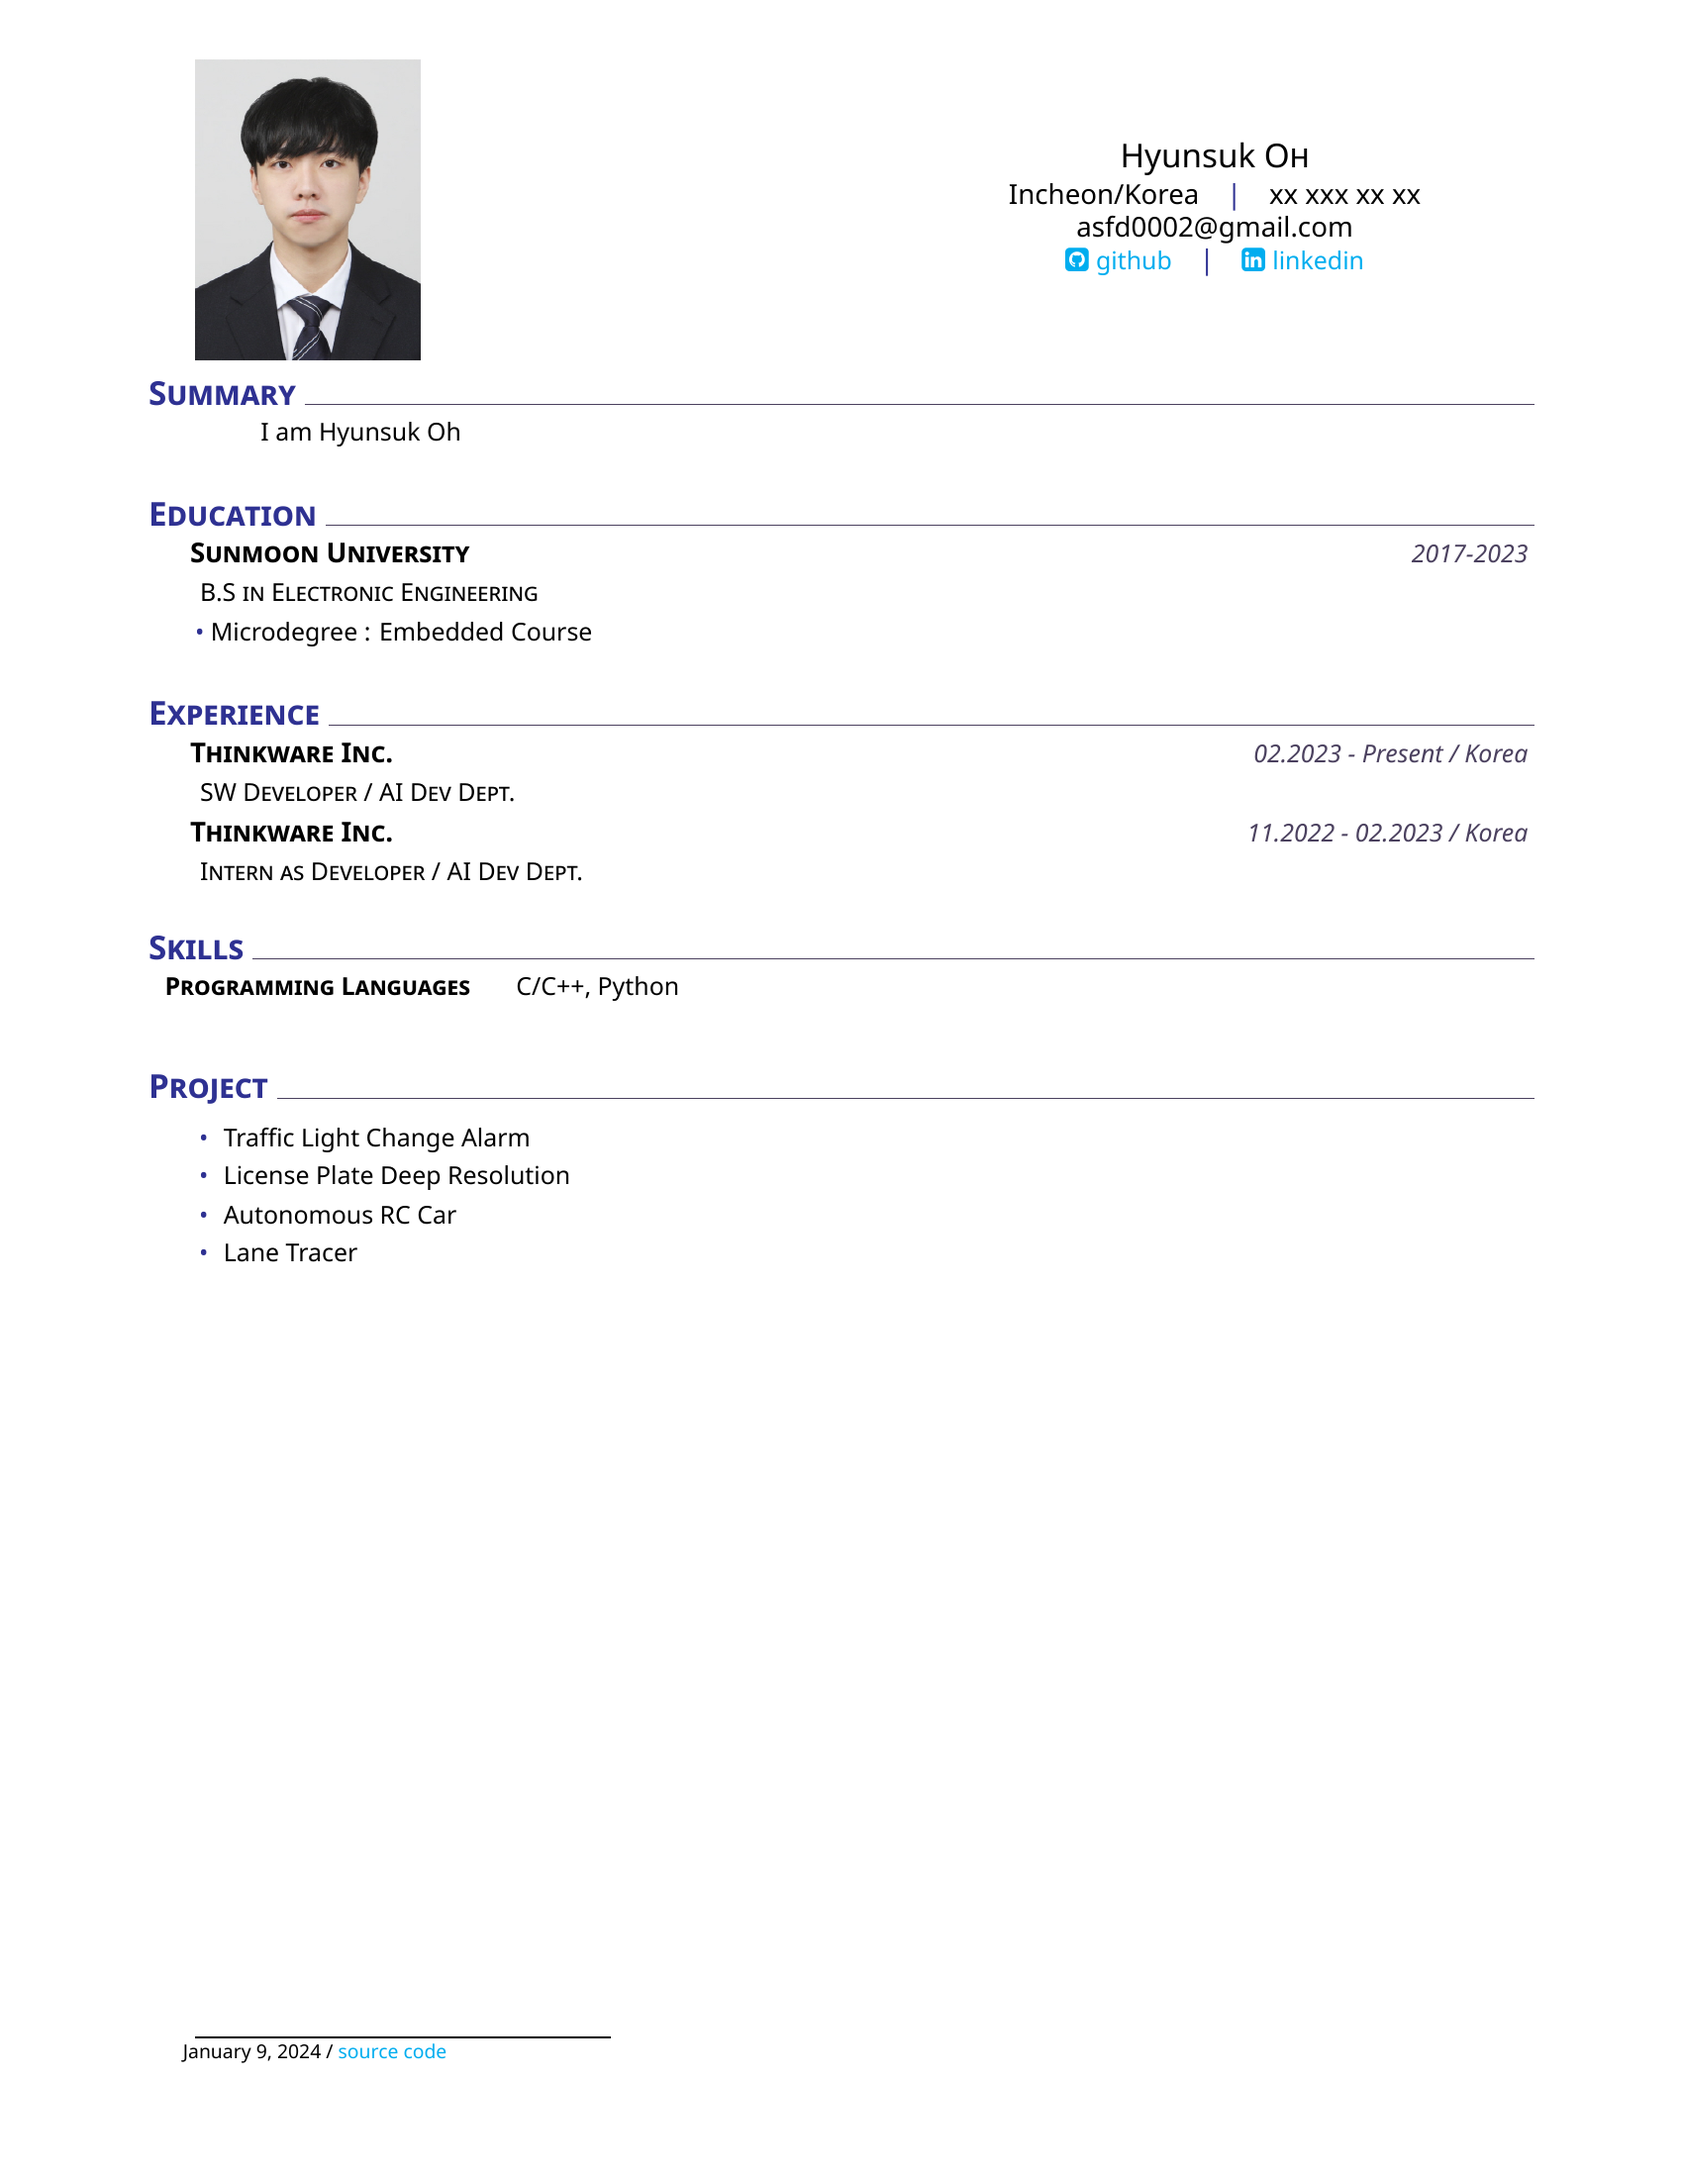
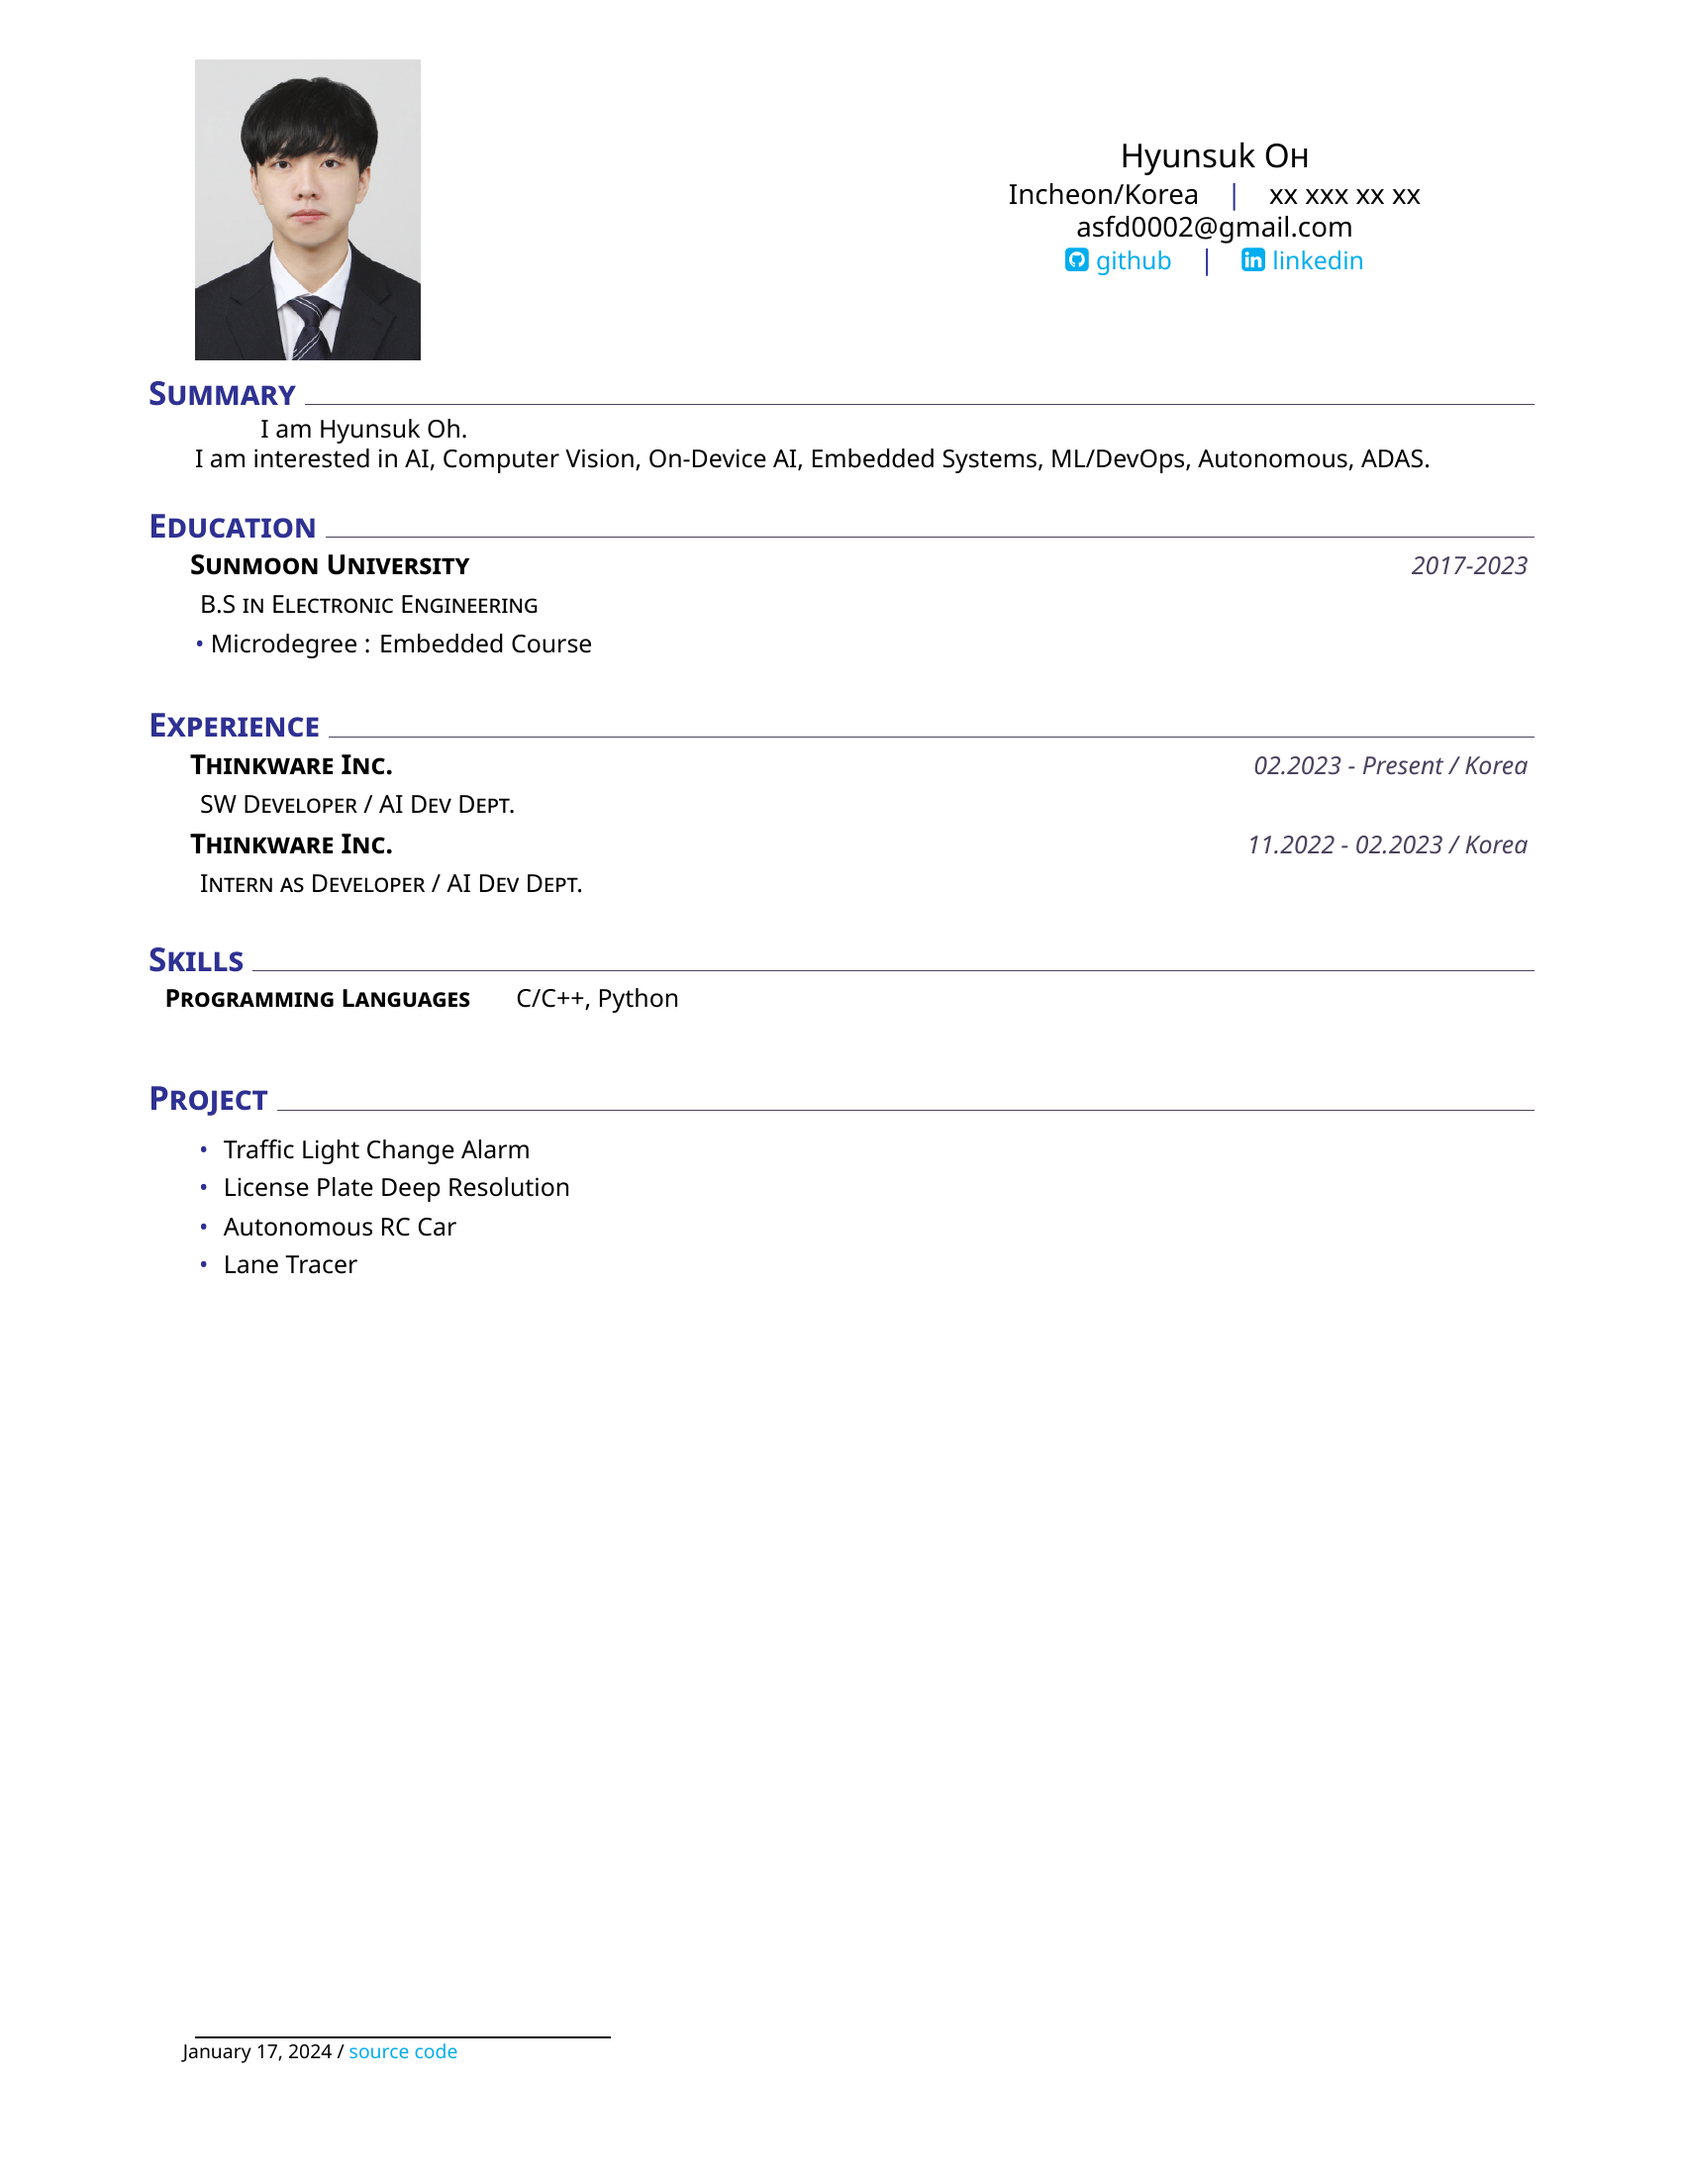
[chore]: update docker env

diff --git a/cv.tex b/cv.tex
@@ -19,7 +19,7 @@
 %
 % Summary
 \addblocktext{Summary}{
-{I am Hyunsuk Oh}
+{I am Hyunsuk Oh. \par I am interested in AI, Computer Vision, On-Device AI, Embedded Systems, ML/DevOps, Autonomous, ADAS.}
 }
 %
 %Education
